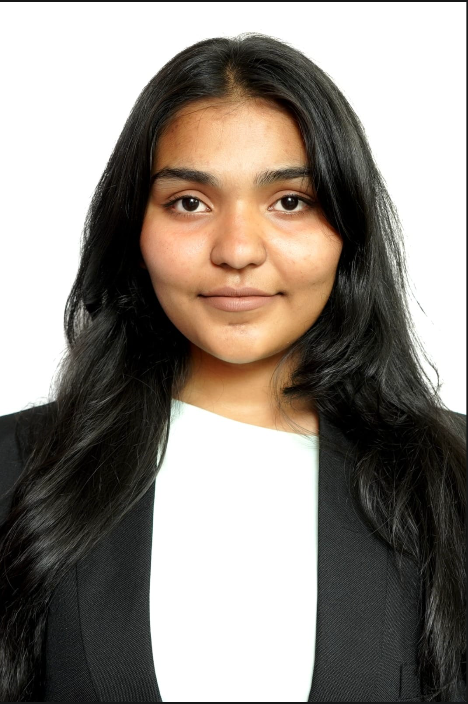
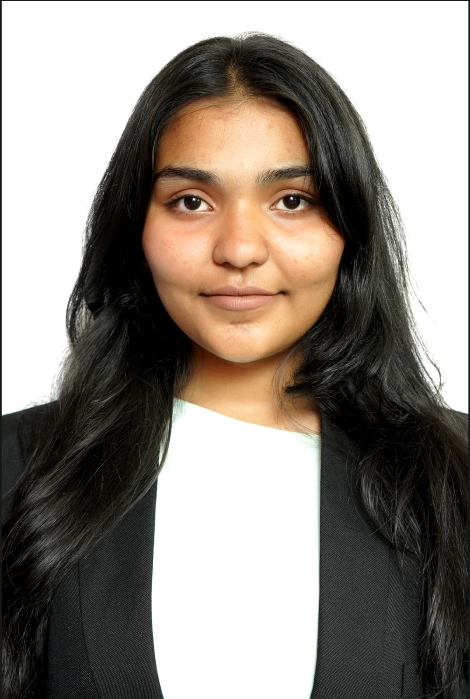
removed content head

diff --git a/src/components/TeamSection.tsx b/src/components/TeamSection.tsx
@@ -45,7 +45,6 @@ const heads: TeamMember[] = [
   { name: 'Vidula Kshirsagar', role: 'Website Head', img: '/img/Vidula_Kshirsagar.png' },
   { name: 'Shubhan Salunkhe', role: 'Digital Head', img: '/img/Shubhan_Salunkhe.png' },
   { name: 'Aryan Palande', role: 'Design Head', img: '/img/Aryan_Palande.png' },
-  { name: 'Nishtha Rajput', role: 'Content Head', img: '/img/Nishtha_Rajput.png' },
   { name: 'Shubhra Rasam', role: 'Documentation Head', img: '/img/Shubhra_Rasam.png' },
 ];
 
@@ -62,6 +61,7 @@ const tabs: Tab[] = [
   { label: "Core Committee", key: "core" },
   { label: "Heads", key: "heads" },
   // { label: "Members", key: "members" },
+  // to hide members section for now
 ];
 
 // Helper to get team data by tab
